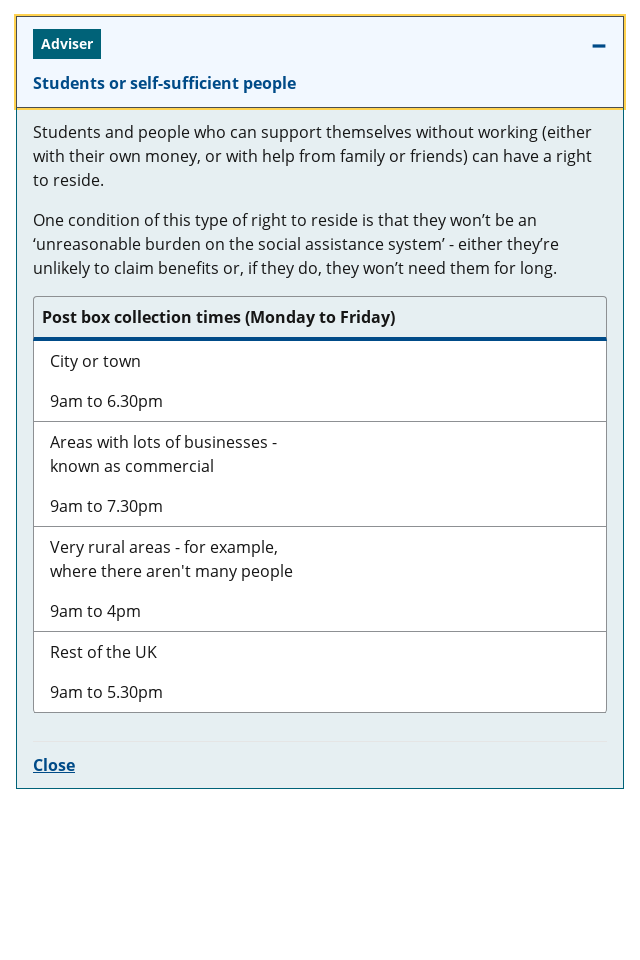
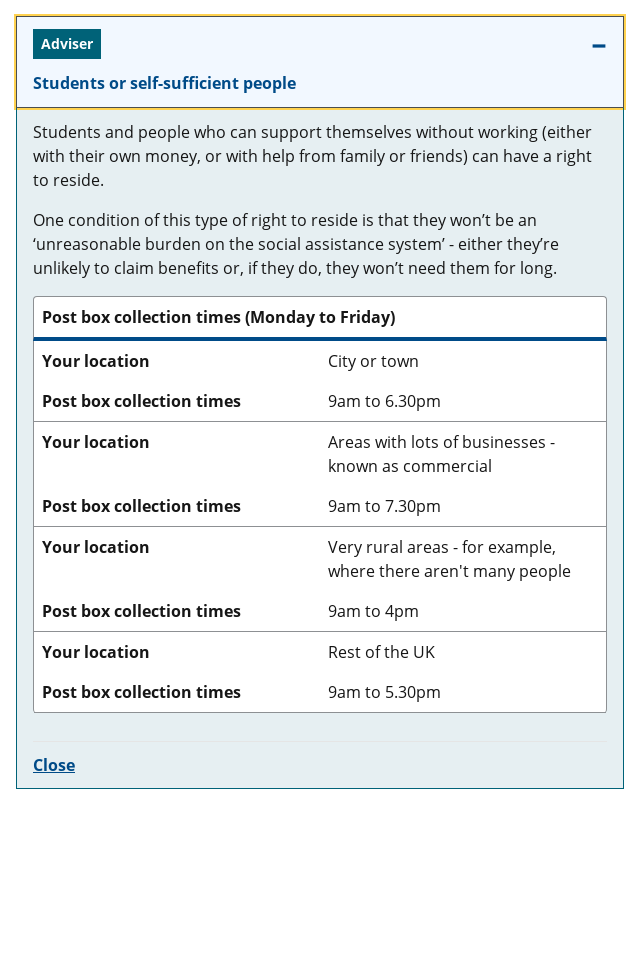
feat: responsive table without Javascript [NP-1430] (#799)
* chore: remove initTables, add deprecation warning
* feat: update table haml to include responsive headers
* test: update visual regression tests
* chore: remove unused decorator
* docs: changelog
* fix: set background colour of caption to white
* fix: indentation of table rows haml

diff --git a/src/js/tables.js b/src/js/tables.js
@@ -1,35 +1,11 @@
+/**
+ * @deprecated
+ */
 const initTables = () => {
-  try {
-    const tables = document.getElementsByClassName('cads-table'); // eslint-disable-line
-
-    /* eslint-disable no-restricted-syntax */
-    if (tables) {
-      for (const table of tables) {
-        try {
-          const tbody = table.getElementsByTagName('tbody')[0];
-          const rows = tbody.getElementsByTagName('tr');
-          const headingCells = rows[0].getElementsByTagName('th');
-          const headings = [];
-
-          for (const heading of headingCells) {
-            headings.push(heading.innerText);
-          }
-
-          for (const row of rows) {
-            const cells = row.getElementsByTagName('td');
-            for (let c = 0; c < cells.length; ++c) {
-              const cell = cells[c];
-              cell.innerHTML = `<span class="cads-table__th-heading">${headings[c]}</span>${cell.innerHTML}`;
-            }
-          }
-        } catch (e) {
-          console.warn(`Error ${e} initialising table ${table}`);
-        }
-      }
-    }
-  } catch (e) {
-    console.warn(`Could not initialise tables. ${e}`);
-  }
+  // eslint-disable-next-line no-console
+  console.info(
+    'deprecation warning: initTables is no longer required and will be removed in future versions.'
+  );
 };
 
 export default initTables;

diff --git a/styleguide/components/tables/tables.stories.js b/styleguide/components/tables/tables.stories.js
@@ -1,17 +1,10 @@
 import docs from './tables-docs.mdx';
 import template from './_table.html.haml';
 import { translate } from '../../story-helpers';
-import initTables from '../../../src/js/tables';
-
-function decorateWithBehaviour(Story) {
-  setTimeout(() => initTables());
-  return Story();
-}
 
 export default {
   title: 'Components/Tables',
   parameters: { docs: { page: docs } },
-  decorators: [decorateWithBehaviour],
 };
 
 export const Table = (_, options) => translate(template, options);

diff --git a/styleguide/sample-pages/page-helpers.js b/styleguide/sample-pages/page-helpers.js
@@ -2,13 +2,11 @@ import GreedyNav from '../../src/ts/greedy-nav/GreedyNav';
 import initHeader from '../../src/js/header';
 import initTargetedContent from '../../src/js/targeted-content';
 import initCallouts from '../../src/js/callout';
-import initTables from '../../src/js/tables';
 
 export function initGlobalJS() {
   initHeader();
   initTargetedContent();
   initCallouts();
-  initTables();
   GreedyNav.init({ breakpoint: 0 });
 }
 

diff --git a/scss/4-elements/_tables.scss b/scss/4-elements/_tables.scss
@@ -59,6 +59,7 @@ table,
     }
 
     caption {
+      background-color: $cads-palette__white;
       border: solid $cads-border-width-small $cads-language__input-border-colour;
       border-top-left-radius: $cads-border-radius-large;
       border-top-right-radius: $cads-border-radius-large;

diff --git a/CHANGELOG.md b/CHANGELOG.md
@@ -1,3 +1,5 @@
+**New**
+- 🧂 Tables: Responsive tables no longer require javascript! (NP-1430)
 ## <sub>v4.0.2-alpha.2</sub>
 
 #### _Feb. 2, 2021_